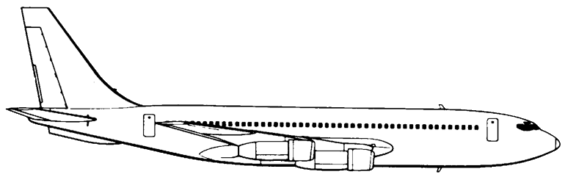
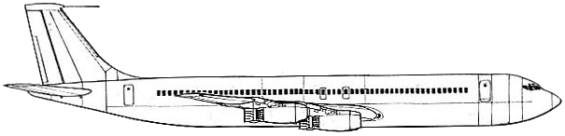
boeing 707 new sprite

Changed region(s): [[0.0, 0.0, 1.0, 0.9706]]

diff --git a/shilka2/Aircrafts.cs b/shilka2/Aircrafts.cs
@@ -1891,7 +1891,7 @@ namespace shilka2
                 aircraftType = "boeing707",
                 aircraftName = "Боинг 707",
                 hitPoint = 100,
-                size = new int[] { 565, 177 },
+                size = new int[] { 565, 136 },
                 speed = 9,
                 minAltitude = minAltitudeForLargeAircraft,
                 cantEscape = true,
